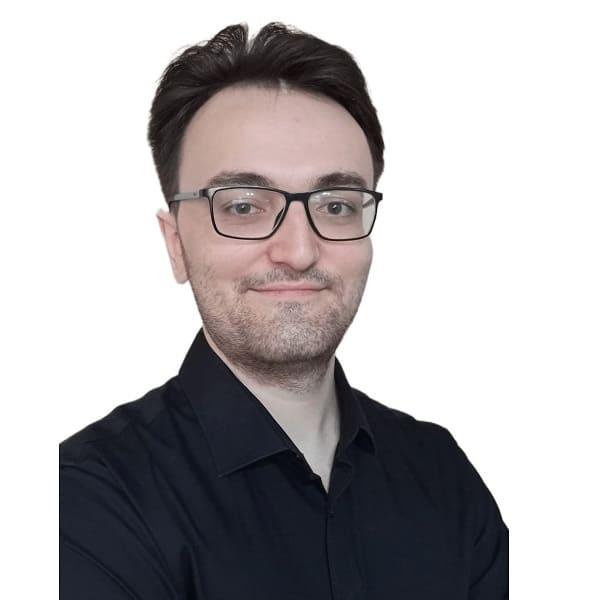
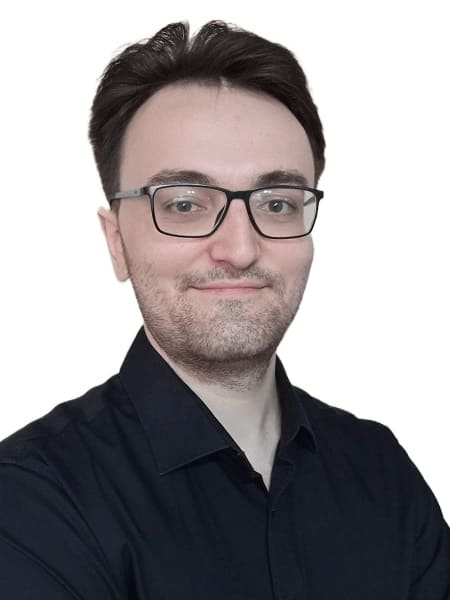
image centered

Changed region(s): [[0.0, 0.03, 1.0, 1.0], [0.3111, 0.99, 0.3422, 1.0]]

diff --git a/main.css b/main.css
@@ -29,7 +29,7 @@ input:-webkit-autofill, textarea:-webkit-autofill, select:-webkit-autofill {back
 /* 1.2 Typography */
 h1,h2,h3,h4,h5,h6 {font-family: 'Inter', sans-serif;}
 figure{ margin: 0 }
-svg,img { max-width: 100%; height: auto; }
+svg,img { max-width: 70%; height: auto; margin: auto; display: block;}
 
 /*-----------------------------------------------------------------
   1. >>> Headr Style
@@ -139,7 +139,7 @@ span.ds-department{ color: #373737; font-weight: 500; font-size: 18px; padding-b
 	.ds-header,.ds-header.ds-fixed-header{ padding: 15px 0; }
 	.ds-banner,.ds-about-section,.ds-skills-section,.ds-experience-section,.ds-work-section,.ds-work-details-section{ padding-left: 10px; padding-right: 10px; }
 	.ds-logo{ font-size: 0; }
-	.ds-banner figure{ padding: 30px 0; }
+	.ds-banner figure{ padding: 30px 0;}
 	.ds-banner section{ padding-left: 0;padding-right: 0; }
 	.ds-banner section h1 span{ padding-bottom: 0; }
 	.ds-banner section h1,.ds-work-det-title{ font-size: 30px; line-height: 40px; }
